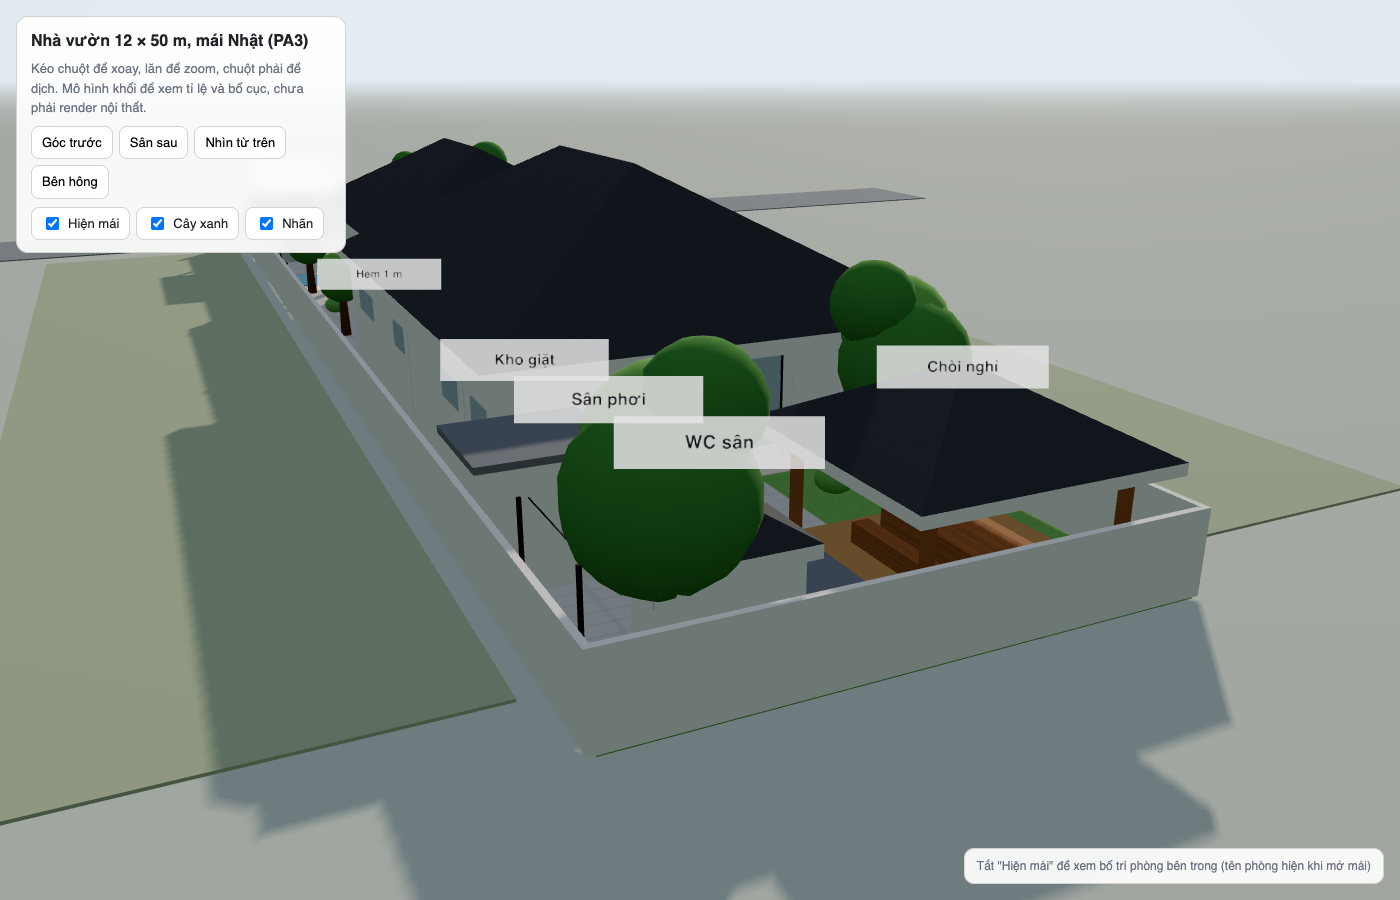
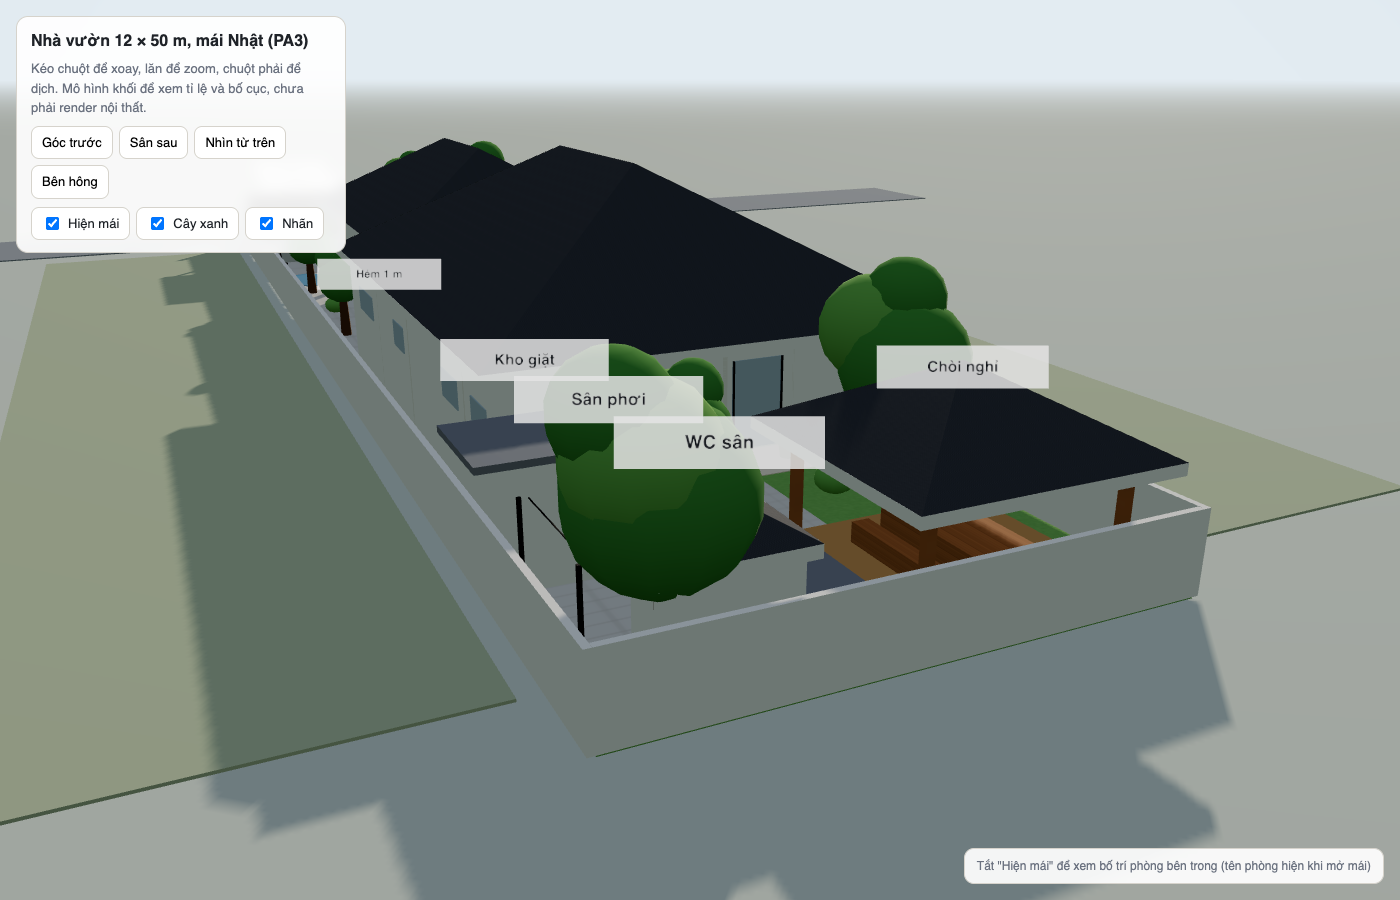
WC khách mở ra sảnh, phòng ngủ khách 6 x 2,8; ghi kích thước ngay trong từng phòng

Changed region(s): [[0.43, 0.3733, 0.5529, 0.4667], [0.5836, 0.28, 0.6757, 0.4044], [0.3686, 0.4667, 0.43, 0.4978]]

diff --git a/mat-bang-nha-12x50.html b/mat-bang-nha-12x50.html
@@ -70,6 +70,7 @@
       <span><i style="background:var(--accent);border-color:var(--accent)"></i>Cửa</span>
       <span><i style="background:#7cc4ff;border-color:#7cc4ff"></i>Cửa sổ / kính</span>
       <span><i style="background:#4f9a5a;border-color:#4f9a5a;border-radius:50%"></i>Cây nhỏ trong nhà</span>
+      <span><i style="background:#2563eb;border-color:#2563eb"></i>Kích thước phòng (m): số nằm ngang là chiều sâu từ ngoài vào, số dựng đứng là bề ngang</span>
     </div>
   </div>
 
@@ -82,9 +83,9 @@
       <h2 style="margin-top:0">Ý đồ thiết kế</h2>
       <ul>
         <li><b>Gian trước 7,5 × 12,5 m</b>: hiên 2,5 m, rồi gian thờ 3,5 × 4,5 m bên trái và sảnh vào 4 × 4,5 m bên phải, sau đó là phòng khách 7,5 × 5,5 m. Gian thờ là phòng đầu tiên của nhà, bàn thờ đặt sát tường trong nhìn thẳng ra đường, có cửa sổ tròn bên hông và cửa sổ ra hiên. Cửa 2 cánh mở từ sảnh vào. Toàn bộ gian trước không có WC.</li>
-        <li><b>Gian ngang 11 × 13,8 m</b> chừa hẻm 1 m bên phải. Giữa nhà là phòng ăn 5,4 × 6 m dưới giếng trời. Bên trái là phòng ngủ khách 2,8 × 8,2 m chạy suốt hai hàng, 2 giường đôi 1,6 × 2 m kê ngang phòng, đầu cả hai giường tựa tường ranh trái là tường đặc, không cửa sổ, không giáp WC. Chân giường quay về tường phòng ăn, không hướng ra cửa, cửa sổ hay WC. Lối đi cuối giường 0,75 m, tab đầu giường dùng chung ở giữa. Cửa sổ tường trước nâng cao, mép dưới 1,9 m, để không nằm ngay sau đầu giường. Cửa phòng mở từ phòng ăn, ở góc xa bếp nấu nên không nhìn thẳng vào bếp lửa. Cuối phòng có WC riêng và hốc tủ áo, chỉ đi vào từ trong phòng. Bên phải là bếp nấu 2,8 × 4,2 m tựa tường hẻm, ngăn với phòng ăn bằng vách kính lùa và đảo 3 m, có cửa phụ ra hẻm. Sau bếp nấu là phòng làm việc 2,8 × 4 m, có bàn làm việc và 1 giường đơn cho người ngủ lại. Hàng giữa: sảnh. Hàng sau: ngủ chính 1 và 2 mỗi phòng 4,5 × 5,6 m, 25,2 m² trọn vẹn, cửa mở từ sảnh chính. Giữa hai phòng là hành lang rộng 2 m, cuối có cửa 2 cánh 1,6 m ra hiên sau. Đây là lối chính trong nhà đi ra sân sau, đủ rộng để bưng đồ ăn ra chòi khi có tiệc.</li>
+        <li><b>Gian ngang 11 × 13,8 m</b> chừa hẻm 1 m bên phải. Giữa nhà là phòng ăn 5,4 × 6 m dưới giếng trời. Bên trái là phòng ngủ khách 6 × 2,8 m, 2 giường đôi 1,6 × 2 m kê ngang phòng, đầu cả hai giường tựa tường ranh trái là tường đặc, không cửa sổ, không giáp WC. Chân giường quay về tường phòng ăn, không hướng ra cửa, cửa sổ hay WC. Lối đi cuối giường 0,75 m, tab đầu giường dùng chung ở giữa. Cửa sổ tường trước nâng cao, mép dưới 1,9 m, để không nằm ngay sau đầu giường. Cửa phòng mở từ phòng ăn, ở góc xa bếp nấu nên không nhìn thẳng vào bếp lửa. Cuối phòng có tủ áo. Bên phải là bếp nấu 2,8 × 4,2 m tựa tường hẻm, ngăn với phòng ăn bằng vách kính lùa và đảo 3 m, có cửa phụ ra hẻm. Sau bếp nấu là phòng làm việc 2,8 × 4 m, có bàn làm việc và 1 giường đơn cho người ngủ lại. Hàng giữa: WC khách mở cửa ra sảnh, rồi sảnh. Hàng sau: ngủ chính 1 và 2 mỗi phòng 4,5 × 5,6 m, 25,2 m² trọn vẹn, cửa mở từ sảnh chính. Giữa hai phòng là hành lang rộng 2 m, cuối có cửa 2 cánh 1,6 m ra hiên sau. Đây là lối chính trong nhà đi ra sân sau, đủ rộng để bưng đồ ăn ra chòi khi có tiệc.</li>
         <li><b>Hai WC riêng 2,4 × 2,6 m</b> nhô ra phía hiên sau, nằm trong mép mái đua sẵn có nên không phải làm thêm mái. Mỗi WC có ba mặt ngoài, cửa sổ hai phía, rất thoáng. Hiên sau thu lại còn 5,8 m nằm giữa hai WC, thành một góc ngồi kín đáo hơn. Mỗi phòng master có cửa kính ra thẳng hiên.</li>
-        <li><b>4 WC</b>: WC riêng 1 và 2 cho hai phòng ngủ chính, nhô ra phía hiên sau. WC 2,2 × 1,9 m nằm trong phòng ngủ khách. WC sân vườn 2 × 2,2 m cạnh chòi và BBQ, dùng khi tiệc ngoài trời. Không WC nào nằm giữa nhà hay gần gian thờ.</li>
+        <li><b>4 WC</b>: WC riêng 1 và 2 cho hai phòng ngủ chính, nhô ra phía hiên sau. WC khách 2,2 × 1,9 m đứng riêng, cửa mở ra sảnh, khách và cả nhà đều dùng được. WC sân vườn 2 × 2,2 m cạnh chòi và BBQ, dùng khi tiệc ngoài trời. Không WC nào nằm giữa nhà hay gần gian thờ.</li>
         <li><b>Hẻm 1 m</b> chạy từ sân bên phải gian trước ra thẳng sân sau. Đủ cho người đi lại thoải mái, mang đồ, đẩy xe rác hoặc máy cắt cỏ ra sau mà không phải đi xuyên nhà. Dắt xe máy thì hơi chật, cần khoảng 1,2 m.</li>
         <li><b>Tiệc 15–16 người:</b> hai bộ bàn 3 × 0,9 m, mỗi bộ 8 ghế, đặt song song trong phòng ăn dưới giếng trời. Khoảng hở giữa hai hàng ghế, trước và sau bàn đều 0,8 m. Bên phải còn lối đi 2 m tới đảo 3 m làm quầy buffet. Ngày thường dùng một bàn, bàn còn lại làm bàn làm việc hoặc cho con học. Phòng khách giữ trọn sofa, TV và góc đọc sách.</li>
         <li><b>Giếng trời</b> trên phòng ăn, đúng tâm nhà, lấy sáng và tụ khí cho khu sinh hoạt chung.</li>
@@ -269,12 +270,12 @@ const rooms=[
   {n:'GIAN THỜ',d:[15.5,20],w:[1.8,5.3],f:'--c-worship'},
   {n:'SẢNH VÀO',d:[15.5,20],w:[5.3,9.3],f:'--c-living'},
   {n:'PHÒNG KHÁCH + SINH HOẠT',d:[20,25.5],w:[1.8,9.3],f:'--c-living'},
-  {n:'NGỦ KHÁCH',d:[25.5,33.7],w:[0,2.8],f:'--c-bed',minus:4.18,sub:'2 giường đôi · WC riêng',lp:[28.6,1.25]},
+  {n:'NGỦ KHÁCH',d:[25.5,31.5],w:[0,2.8],f:'--c-bed',sub:'2 giường đôi',lp:[28.6,1.25]},
   {n:'PHÒNG ĂN',d:[25.5,31.5],w:[2.8,8.2],f:'--c-kitchen',sub:'2 bàn 16 chỗ · giếng trời',lp:[28.2,7.2]},
   {n:'BẾP NẤU',d:[25.5,29.7],w:[8.2,11.0],f:'--c-kitchen',lp:[27.9,9.75]},
   {n:'LÀM VIỆC',d:[29.7,33.7],w:[8.2,11.0],f:'--c-bed',sub:'1 giường đơn',lp:[31.2,9.3]},
-  {n:'WC',d:[31.5,33.7],w:[0,1.9],f:'--c-wet',small:true,sub2:'2,2 × 1,9'},
-  {n:'SẢNH',d:[31.5,33.7],w:[2.8,8.2],f:'--c-hall'},
+  {n:'WC KHÁCH',d:[31.5,33.7],w:[0,1.9],f:'--c-wet',small:true},
+  {n:'SẢNH',d:[31.5,33.7],w:[1.9,8.2],f:'--c-hall'},
   {n:'NGỦ CHÍNH 1',d:[33.7,39.3],w:[0,4.5],f:'--c-bed',sub:'WC riêng phía sau'},
   {n:'hành lang ra sau 2 m',d:[33.7,39.3],w:[4.5,6.5],f:'--c-hall',small:true,vert:true},
   {n:'NGỦ CHÍNH 2',d:[33.7,39.3],w:[6.5,11.0],f:'--c-bed',sub:'WC riêng phía sau'},
@@ -318,7 +319,7 @@ const rooms=[
   rect(g,m,29.0,29.6,10.25,10.95,{fill:'#e5e7eb',stroke:'#b8b3a8'}); 
   rect(g,m,26.0,29.0,8.35,9.25,{fill:'#d9c6a5',stroke:'#8b5a2b','stroke-width':1,rx:2}); label(g,m,27.5,8.9,'ĐẢO 3 m · buffet',{size:9,fill:'#5b3a1a'});
   function bed(d1,d2,w1,w2,head){rect(g,m,d1,d2,w1,w2,F); const h=0.35; if(head==='w0')rect(g,m,d1+0.1,d2-0.1,w1,w1+h,{fill:'#e5e7eb',rx:2}); if(head==='w1')rect(g,m,d1+0.1,d2-0.1,w2-h,w2,{fill:'#e5e7eb',rx:2}); if(head==='d1')rect(g,m,d2-h,d2,w1+0.1,w2-0.1,{fill:'#e5e7eb',rx:2}); if(head==='ds')rect(g,m,d1,d1+h,w1+0.1,w2-0.1,{fill:'#e5e7eb',rx:2});}
-  bed(25.8,27.4,0.05,2.05,'w0'); bed(28.3,29.9,0.05,2.05,'w0'); rect(g,m,27.55,28.15,0.05,0.45,F); rect(g,m,31.7,33.5,2.2,2.7,{fill:'#e5e7eb',rx:2}); bed(31.6,33.6,9.9,10.9,'d1'); rect(g,m,29.8,30.4,8.4,9.8,Object.assign({},F,{stroke:'#a67c52'})); el('circle',{cx:m.x(30.7),cy:m.y(9.1),r:.22*m.S,fill:'#fff',stroke:'#a67c52'},g); bed(35.3,37.1,0.1,2.1,'w0'); bed(35.3,37.1,8.9,10.9,'w1');
+  bed(25.8,27.4,0.05,2.05,'w0'); bed(28.3,29.9,0.05,2.05,'w0'); rect(g,m,27.55,28.15,0.05,0.45,F); rect(g,m,30.95,31.45,0.1,2.2,{fill:'#e5e7eb',rx:2}); bed(31.6,33.6,9.9,10.9,'d1'); rect(g,m,29.8,30.4,8.4,9.8,Object.assign({},F,{stroke:'#a67c52'})); el('circle',{cx:m.x(30.7),cy:m.y(9.1),r:.22*m.S,fill:'#fff',stroke:'#a67c52'},g); bed(35.3,37.1,0.1,2.1,'w0'); bed(35.3,37.1,8.9,10.9,'w1');
   rect(g,m,36.4,39.1,3.9,4.4,{fill:'#e5e7eb',rx:2}); rect(g,m,36.4,39.1,6.6,7.1,{fill:'#e5e7eb',rx:2}); // tủ áo
   function plant(d,w,r){const cx=m.x(d),cy=m.y(w),R=(r||0.3)*m.S; el('circle',{cx,cy,r:R,fill:'#4f9a5a'},g); el('circle',{cx:cx-R*.3,cy:cy-R*.3,r:R*.45,fill:'#7cc27f'},g);}
   plant(14.2,2.5,0.3); plant(16.3,6.0,0.3); plant(24.9,2.2,0.25); plant(24.9,8.9,0.22); plant(31.0,7.8,0.18); plant(32.6,5.0,0.2); plant(34.3,5.5,0.18); plant(40.2,3.2,0.3); plant(40.2,7.9,0.3);
@@ -329,13 +330,27 @@ const rooms=[
     const cd=r.lp?r.lp[0]:(r.d[0]+r.d[1])/2, cw=r.lp?r.lp[1]:(r.w[0]+r.w[1])/2;
     if(r.vert){ label(g,m,cd,cw,r.n,{size:10,rot:-90}); }
     else{
-      const lines=[r.n]; if(r.sub2) lines.push(r.sub2);
-      if(!r.small) lines.push(`${fmt(r.d[1]-r.d[0])} × ${fmt(r.w[1]-r.w[0])} · ${fmt(a)} m²`);
+      const lines=[r.n];
+      if(!r.small) lines.push(`${fmt(a)} m²`);
       if(r.sub) lines.push(r.sub);
       label(g,m,cd,cw+(r.small?0.1:0),lines,{size:r.small?10:(r.lp?11:12),bold:!r.small});
     }
   });
 
+  // kích thước ghi ngay trong từng phòng: cạnh ngang dọc mép trên, cạnh dọc dọc mép trái
+  const DC='#2563eb';
+  function inTxt(x,y,txt,rot){const t=el('text',{x,y,'text-anchor':'middle','font-size':10,'font-weight':600,fill:DC,stroke:'#fff','stroke-width':3,'paint-order':'stroke'},g,txt); if(rot) t.setAttribute('transform',`rotate(-90 ${x} ${y})`);}
+  rooms.forEach(r=>{
+    const [d1,d2]=r.d,[w1,w2]=r.w, o=0.3, k=4;
+    const yy=m.y(w1+o), x1=m.x(d1+0.08), x2=m.x(d2-0.08);
+    el('line',{x1,y1:yy,x2,y2:yy,stroke:DC,'stroke-width':1},g);
+    [x1,x2].forEach(x=>el('line',{x1:x,y1:yy-k,x2:x,y2:yy+k,stroke:DC,'stroke-width':1},g));
+    inTxt((x1+x2)/2,yy+3.5,fmt(d2-d1));
+    const xx=m.x(d1+o), y1=m.y(w1+0.08), y2=m.y(w2-0.08);
+    el('line',{x1:xx,y1,x2:xx,y2,stroke:DC,'stroke-width':1},g);
+    [y1,y2].forEach(y=>el('line',{x1:xx-k,y1:y,x2:xx+k,y2:y,stroke:DC,'stroke-width':1},g));
+    inTxt(xx+3.5,(y1+y2)/2,fmt(w2-w1),true);
+  });
   const W=css('--wall'), t=6, ti=3.5;
   function wall(d1,w1,d2,w2,thick){el('line',{x1:m.x(d1),y1:m.y(w1),x2:m.x(d2),y2:m.y(w2),stroke:W,'stroke-width':thick||t,'stroke-linecap':'square'},g);}
   wall(15.5,1.8,25.5,1.8); wall(15.5,9.3,25.5,9.3); wall(15.5,1.8,15.5,9.3);
@@ -345,8 +360,8 @@ const rooms=[
   wall(39.3,2.6,41.7,2.6); wall(41.7,0,41.7,2.6); wall(39.3,8.4,41.7,8.4); wall(41.7,8.4,41.7,11.0);
   wall(15.5,5.3,20,5.3,ti); wall(20,1.8,20,5.3,ti);
   wall(25.5,1.8,25.5,9.3,ti);
-  wall(25.5,2.8,33.7,2.8,ti); wall(29.7,8.2,33.7,8.2,ti); wall(29.7,8.2,29.7,11.0,ti);
-  wall(31.5,0,31.5,1.9,ti); wall(31.5,2.8,31.5,8.2,ti);
+  wall(25.5,2.8,31.5,2.8,ti); wall(29.7,8.2,33.7,8.2,ti); wall(29.7,8.2,29.7,11.0,ti);
+  wall(31.5,0,31.5,8.2,ti);
   wall(31.5,1.9,33.7,1.9,ti);
   wall(33.7,0,33.7,11.0,ti);
   wall(33.7,4.5,39.3,4.5,ti); wall(33.7,6.5,39.3,6.5,ti);
@@ -386,7 +401,7 @@ const rooms=[
   dim(g,m,13,15.5,12.9,'2,5'); dim(g,m,15.5,20,12.9,'4,5'); dim(g,m,20,25.5,12.9,'5,5'); dim(g,m,25.5,31.5,12.9,'6'); dim(g,m,31.5,33.7,12.9,'2,2'); dim(g,m,33.7,39.3,12.9,'5,6'); dim(g,m,39.3,41.7,12.9,'2,4');
   dimV(g,m,0,2.8,25.1,'2,8'); dimV(g,m,2.8,8.2,25.1,'5,4'); dimV(g,m,8.2,11.0,25.1,'2,8'); dimV(g,m,11.0,12,25.1,'1');
   dimV(g,m,0,1.8,12.6,'1,8'); dimV(g,m,1.8,9.3,12.6,'7,5'); dimV(g,m,9.3,12,12.6,'2,7');
-  dim(g,m,25.5,33.7,-0.35,'ngủ khách dài 8,2 m (gồm WC 2,2)'); dim(g,m,25.5,29.7,11.8,'bếp nấu 4,2'); dim(g,m,29.7,33.7,11.8,'làm việc 4');
+  dim(g,m,25.5,29.7,11.8,'bếp nấu 4,2'); dim(g,m,29.7,33.7,11.8,'làm việc 4');
   label(g,m,20.5,0.9,'dải cây xanh 1,8 m',{size:10,fill:css('--muted')}); label(g,m,19,10.7,'sân lát bên phải 2,7 m',{size:10,fill:css('--muted')});
   dimV(g,m,0,4.5,42.4,'4,5'); dimV(g,m,4.5,6.5,42.4,'2'); dimV(g,m,6.5,11.0,42.4,'4,5'); dimV(g,m,11.0,12,42.4,'1');
   dimV(g,m,1.8,5.3,15.1,'3,5'); dimV(g,m,5.3,9.3,15.1,'4');

diff --git a/3d-nha-12x50.html b/3d-nha-12x50.html
@@ -193,9 +193,9 @@ const inner=new THREE.Group(); house.add(inner); const IH=3.2, TI=0.12;
 function iw(d1,w1,d2,w2){ if(d1===d2) box(d1-TI/2,d1+TI/2,Math.min(w1,w2),Math.max(w1,w2),0,IH,M.inner,inner); else box(Math.min(d1,d2),Math.max(d1,d2),w1-TI/2,w1+TI/2,0,IH,M.inner,inner); }
 iw(15.5,5.3,17,5.3); iw(18.2,5.3,20,5.3); iw(20,1.8,20,5.3);
 iw(25.5,1.8,25.5,3.0); iw(25.5,8.0,25.5,9.3);
-iw(25.5,2.8,30.5,2.8); iw(31.3,2.8,33.7,2.8); iw(29.7,8.2,32.0,8.2); iw(32.8,8.2,33.7,8.2); iw(29.7,8.2,29.7,11.0);
+iw(25.5,2.8,30.5,2.8); iw(31.3,2.8,31.5,2.8); iw(29.7,8.2,32.0,8.2); iw(32.8,8.2,33.7,8.2); iw(29.7,8.2,29.7,11.0);
 box(25.7,29.5,8.17,8.23,0.15,IH,M.glass,inner,false);
-iw(31.5,0,31.5,1.9); iw(31.5,2.8,31.5,4.0); iw(31.5,7.9,31.5,8.2);
+iw(31.5,0,31.5,4.0); iw(31.5,7.9,31.5,8.2);
 iw(31.5,1.9,32.2,1.9); iw(33.0,1.9,33.7,1.9);
 iw(33.7,0,33.7,3.2); iw(33.7,4.1,33.7,4.6); iw(33.7,6.4,33.7,7.3); iw(33.7,8.2,33.7,11.0);
 iw(33.7,4.5,39.3,4.5); iw(33.7,6.5,39.3,6.5);
@@ -236,7 +236,7 @@ function makeLabel(text,d,w,y,size=1.1,grp=labels){
   const t=new THREE.CanvasTexture(c); t.colorSpace=THREE.SRGBColorSpace;
   const sp=new THREE.Sprite(new THREE.SpriteMaterial({map:t,depthTest:false,transparent:true})); sp.scale.set(size*4,size,1); sp.position.set(d,y,w); grp.add(sp);
 }
-[['Gian thờ',17.7,3.5],['Sảnh vào',17.7,7.3],['Phòng khách',22.7,5.5],['Hiên',14.2,5.5],['Ngủ khách',28.5,1.6],['Phòng ăn',27,5.2],['Bếp nấu',28,9.7],['Làm việc',32,9.4],['Sảnh',32.6,5.5],['Ngủ chính 1',36.5,2.1],['Ngủ chính 2',36.5,8.9],['WC riêng',40.5,1.3],['WC riêng',40.5,9.7],['Hành lang',36.5,5.5],['WC',32.6,0.95],['Hiên sau',40.2,5.5]].forEach(([t,d,w])=>makeLabel(t,d,w,3.4,0.8));
+[['Gian thờ',17.7,3.5],['Sảnh vào',17.7,7.3],['Phòng khách',22.7,5.5],['Hiên',14.2,5.5],['Ngủ khách',28.5,1.6],['Phòng ăn',27,5.2],['Bếp nấu',28,9.7],['Làm việc',32,9.4],['Sảnh',32.6,5.5],['Ngủ chính 1',36.5,2.1],['Ngủ chính 2',36.5,8.9],['WC riêng',40.5,1.3],['WC riêng',40.5,9.7],['Hành lang',36.5,5.5],['WC khách',32.6,0.95],['Hiên sau',40.2,5.5]].forEach(([t,d,w])=>makeLabel(t,d,w,3.4,0.8));
 [['Garage',6,10.2],['Chòi nghỉ',47.1,3.5],['Sân phơi',46.2,10.2],['Kho giặt',43.1,10.7],['Hẻm 1 m',33.3,11.5],['WC sân',49,9.5],['Hồ cá',11.2,10.5]].forEach(([t,d,w])=>makeLabel(t,d,w,4.2,0.8,outLabels));
 labels.visible=false;
 

diff --git a/BOI-CANH-DU-AN.md b/BOI-CANH-DU-AN.md
@@ -14,8 +14,8 @@
 - Sân trước 13 m: cổng, garage bên trái (nhìn từ trong ra), hồ cá bên trái cạnh lối xe, tiểu cảnh đá bên phải.
 - Gian trước 7,5 x 12,5 m: hiên 2,5; gian thờ 4,5 x 3,5 (phòng đầu tiên) + sảnh vào 4,5 x 4; lam gỗ bình phong; phòng khách 5,5 x 7,5.
 - Gian ngang 11 x 13,8 m, hẻm 1 m bên phải thông ra sân sau.
-  - Hàng trước: ngủ khách 2,8 x 8,2 chạy suốt 2 hàng, 2 giường đôi kê ngang, đầu tựa tường ranh, cửa mở từ phòng ăn, WC trong phòng | phòng ăn 5,4 x 6 ở tâm nhà, giếng trời, 2 bàn 8 chỗ | bếp nấu 2,8 x 4,2 tựa tường hẻm + đảo buffet 3 m.
-  - Hàng giữa: sảnh | phòng làm việc 2,8 x 4 có 1 giường đơn.
+  - Hàng trước: ngủ khách 6 x 2,8, 2 giường đôi kê ngang, đầu tựa tường ranh, cửa mở từ phòng ăn | phòng ăn 5,4 x 6 ở tâm nhà, giếng trời, 2 bàn 8 chỗ | bếp nấu 2,8 x 4,2 tựa tường hẻm + đảo buffet 3 m.
+  - Hàng giữa: WC khách (cửa ra sảnh) | sảnh | phòng làm việc 2,8 x 4 có 1 giường đơn.
   - Hàng sau: ngủ chính 1 và 2 (4,5 x 5,6) | hành lang 2 m ra hiên sau.
   - 2 WC riêng 2,4 x 2,6 nhô ra sau dưới mái đua, hiên sau 5,8 m ở giữa.
 - Sân sau 8,3 m: kho giặt, sân phơi, chòi 5 x 5 + BBQ, WC sân vườn cạnh chòi.
